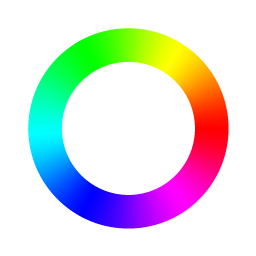
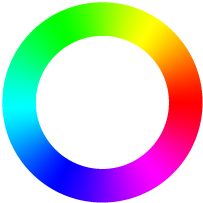
fixing color picker function

diff --git a/index.html b/index.html
@@ -10,34 +10,50 @@
     <link rel="manifest" href="manifest.json">
   </head>
 
-  <body class="text-center">
+  <body>
     <header class="flex">
-      <h1>{{ APP NAME }}</h1>
+      <h1>SmartLamp</h1>
     </header>
     <div class="container">
-      <div class="color-picker">
-        <img src="color.png" alt="Color Picker">
-        <div class="inner-picker"></div>
-      </div>
+      <form method="get" id="submitForm">
+        <div class="row-color">
+          <div class="left">
+            <div class="color-picker">
+              <!-- <canvas id="colors" width="400" height="400"></canvas> -->
+              <canvas id="colors" onmousemove="echoColor(event)"></canvas>
+              <div class="inner-picker"></div>
+            </div>
+          </div>
+          <div class="right">
+            <input type="range" name="brightness" min="0" max="255" class="slider">
+          </div>
+        </div>
 
-      <form method="get">
-        <input type="number" name="red" class="red" hidden>
-        <input type="number" name="green" class="green" hidden>
-        <input type="number" name="blue" class="blue" hidden>
-        <input type="range" name="brightness" min="0" max="255" class="slider">
+        <input type="number" name="red" class="red" value="255" hidden>
+        <input type="number" name="green" class="green" value="0" hidden>
+        <input type="number" name="blue" class="blue" value="0" hidden>
         <br />
-        <button type="submit" class="btn">Apply</button>
+        <div class="flex mt-1">
+          <button type="button" class="btn reset" onmouseup="reset()">Manual</button>
+          <button type="submit" class="btn apply">Apply</button>
+        </div>
       </form>
     </div>
 
-    <footer>
+    <footer class="text-center">
       <form method="get">
         <input type="text" name="power" hidden>
-        <button type="submit" class="power">I</button>
+        <button type="submit" class="power">
+          <svg xmlns="http://www.w3.org/2000/svg" width="24" height="24" viewBox="0 0 24 24">
+            <path style="fill: white;"
+              d="M14 12h-4v-12h4v12zm4.213-10.246l-1.213 1.599c2.984 1.732 5 4.955 5 8.647 0 5.514-4.486 10-10 10s-10-4.486-10-10c0-3.692 2.016-6.915 5-8.647l-1.213-1.599c-3.465 2.103-5.787 5.897-5.787 10.246 0 6.627 5.373 12 12 12s12-5.373 12-12c0-4.349-2.322-8.143-5.787-10.246z" />
+          </svg>
+        </button>
       </form>
     </footer>
 
     <script>
+      // console.log(localStorage.getItem("lamp"));
       window.addEventListener("load", () => {
         registerServiceWorker();
       })
@@ -53,49 +69,75 @@
         }
       }
 
-    </script>
+      let canvas = document.getElementById("colors");
+      let graphics = canvas.getContext("2d");
 
-    <script>
-      const getSpectrumWrapper = () => document.querySelector(".color-picker");
+      canvas.height = canvas.offsetHeight
+      canvas.width = canvas.offsetWidth
 
-      const spectrumRanges = [
-        { from: [255, 0, 0], to: [255, 255, 0] },
-        { from: [255, 255, 0], to: [0, 255, 0] },
-        { from: [0, 255, 0], to: [0, 255, 255] },
-        { from: [0, 255, 255], to: [0, 0, 255] },
-        { from: [0, 0, 255], to: [255, 0, 255] },
-        { from: [255, 0, 255], to: [255, 0, 0] }
-      ];
+      var CX = canvas.width / 2,
+        CY = canvas.height / 2,
+        sx = CX,
+        sy = CY;
 
-      const findColorValue = (from, to, leftRatio) => {
-        return Math.round(from + (to - from) * leftRatio);
-      };
+      for (var i = 0; i < 360; i += 0.1) {
+        var rad = i * (2 * Math.PI) / 360;
+        graphics.strokeStyle = "hsla(" + i + ", 100%, 50%, 1.0)";
+        graphics.beginPath();
+        graphics.moveTo(CX, CY);
+        graphics.lineTo(CX + sx * Math.cos(rad), CY + sy * Math.sin(rad));
+        graphics.stroke();
+      }
 
-      const findRgbFromMousePosition = (event) => {
-        const wrapper = getSpectrumWrapper();
-        const { clientX } = event;
-        const { left, width } = wrapper.getBoundingClientRect();
-        const leftDistance = Math.min(Math.max(clientX - left, 0), width - 1);
-        const totalRanges = spectrumRanges.length;
-        const rangeWidth = width / totalRanges;
-        const includedRange = Math.floor(leftDistance / rangeWidth);
-        const leftRatio = ((leftDistance % rangeWidth) / rangeWidth).toFixed(2);
-        const { from, to } = spectrumRanges[includedRange];
-        return {
-          r: findColorValue(from[0], to[0], leftRatio),
-          g: findColorValue(from[1], to[1], leftRatio),
-          b: findColorValue(from[2], to[2], leftRatio)
-        };
-      };
+      canvas.addEventListener("onmouseover", (e) => {
+        echoColor(e)
+        console.log("asd");
+      })
 
-      getSpectrumWrapper().addEventListener("mousemove", (e) => {
-        const { r, g, b } = findRgbFromMousePosition(e);
-        document.querySelector(".red").value = r;
-        document.querySelector(".green").value = g;
-        document.querySelector(".blue").value = b;
-        document.querySelector(".inner-picker").style.backgroundColor = `rgb(${r}, ${g}, ${b}`
-      });
+      function echoColor(e) {
+        var imgData = graphics.getImageData(e.layerX, e.layerY, 2, 2);
+        let r = imgData.data[0];
+        let g = imgData.data[1];
+        let b = imgData.data[2];
 
+        function ifColorExist(color) {
+          if (r != 0 || g != 0 || b != 0) {
+            return color
+          }
+        }
+
+        let red = ifColorExist(r)
+        let green = ifColorExist(g)
+        let blue = ifColorExist(b)
+
+        document.querySelector(".red").value = red
+        document.querySelector(".green").value = green
+        document.querySelector(".blue").value = blue
+        document.querySelector(".inner-picker").style.backgroundColor = `rgb(${red}, ${green}, ${blue}`
+      }
+
+      function submit() {
+        document.getElementById("submitForm").submit();
+        let brightness = document.querySelector(".slider").value;
+        let set = {
+          red: r,
+          green: g,
+          blue: b,
+          brightness: brightness
+        }
+        localStorage.setItem("lamp", JSON.stringify(set))
+      }
+
+      function reset() {
+        document.querySelector(".red").value = 255
+        document.querySelector(".green").value = 0
+        document.querySelector(".blue").value = 0
+        document.querySelector(".slider").value = 128;
+
+        document.getElementById("submitForm").submit();
+        console.log(1);
+
+      }
     </script>
   </body>
 

diff --git a/style.css b/style.css
@@ -1,3 +1,6 @@
+:root {
+  --bg: #161616;
+}
 * {
   padding: 0;
   margin: 0;
@@ -5,46 +8,96 @@
 body {
   height: 100%;
   width: 100%;
-  overflow: hidden;
+  overflow: hidden !important;
+  background-color: var(--bg);
+  font-weight: 100;
+  color: #f0f0f0;
 }
 header {
-  padding: 30px;
+  padding: 20px 30px;
+}
+header h1 {
+  font-weight: 100;
+  text-transform: uppercase;
+  font-family: Verdana, Geneva, Tahoma, sans-serif;
+}
+button:focus {
+  outline: none;
 }
 .container {
-  padding: 30px;
+  padding: 8vw;
+}
+.row-color {
+  display: flex;
+  width: 84vw;
+  height: calc(84vw * 80 / 100);
+}
+.row-color .left {
+  width: 80%;
+  /* height: 100%; */
+}
+.row-color .right {
+  width: 20%;
 }
 .flex {
   display: flex;
 }
 .color-picker {
-  margin: 0 auto;
+  position: relative;
+  width: 100%;
+  height: 100%;
+}
+.color-picker canvas {
+  width: 100%;
+  height: 100%;
 }
 .inner-picker {
-  width: 120px;
-  height: 120px;
-  top: 195.2px;
-  left: 146px;
   position: absolute;
-  background-color: red;
+  left: 50%;
+  top: 50%;
+  display: inline-block;
+  width: 55%;
+  height: 55%;
+  border: 10px var(--bg) solid;
+  transform: translate(-50%, -50%);
+  background: #ff0000;
   border-radius: 100%;
 }
 .slider {
+  height: 80%;
   width: 100%;
-  margin: 20px 0;
+  -webkit-appearance: slider-vertical;
 }
 .btn {
+  font-weight: 100 !important;
   width: 100%;
-  padding: 10px 20px;
+  padding: 15px 20px;
   border: 0;
-  border-radius: 5px;
-  background-color: #333;
+  border-radius: 10px;
   color: white;
   font-weight: bold;
+  text-transform: uppercase;
+  font-size: 1em;
+}
+.reset {
+  flex: 0;
+  background-color: #6f6f6f;
+  margin-right: 20px;
+}
+.apply {
+  flex: 1;
+  background-color: #0f8db3;
+  /* flex: 2; */
+}
+.btn:hover {
+  filter: brightness(0.9);
+}
+.btn:focus {
+  filter: brightness(0.8);
 }
 .text-center {
   text-align: center;
 }
-
 .power {
   padding: 20px 0;
   border: 0;
@@ -54,6 +107,12 @@ header {
   background-color: #e62a2a;
   color: white;
   font-weight: bold;
+}
+.mt-1 {
+  margin-top: 5px;
+}
+.mt-2 {
+  margin-top: 20px;
 }
 footer {
   width: 100%;
